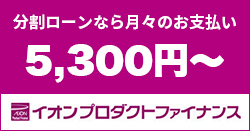
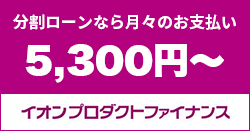
イオンクレジットバナーロゴ削除

Changed region(s): [[0.028, 0.7634, 0.98, 0.9466]]

diff --git a/src/components/Sideb.js b/src/components/Sideb.js
@@ -1,142 +1,60 @@
-import React from "react";
-import { Link } from "gatsby";
+import React from 'react';
+import { Link } from 'gatsby';
 
 const Sideb = () => {
   return (
     <>
-      <ul className="center">
+      <ul className='center'>
         <li>
-          <Link to="/leak/">
-            <img
-              src="/images/side01.jpg"
-              width={264}
-              height={264}
-              loading="lazy"
-              alt="雨漏り診断"
-            />
+          <Link to='/leak/'>
+            <img src='/images/side01.jpg' width={264} height={264} loading='lazy' alt='雨漏り診断' />
           </Link>
         </li>
         <li>
-          <Link to="/drone/">
-            <img
-              src="/images/side02.jpg"
-              width={264}
-              height={264}
-              loading="lazy"
-              alt="ドローンによる調査・診断を始めました"
-            />
+          <Link to='/drone/'>
+            <img src='/images/side02.jpg' width={264} height={264} loading='lazy' alt='ドローンによる調査・診断を始めました' />
           </Link>
         </li>
         <li>
-          <Link to="/category/omoide/">
-            <img
-              src="/images/side03.jpg"
-              width={264}
-              height={264}
-              loading="lazy"
-              alt="思い出のかべ"
-            />
+          <Link to='/category/omoide/'>
+            <img src='/images/side03.jpg' width={264} height={264} loading='lazy' alt='思い出のかべ' />
           </Link>
         </li>
         <li>
-          <a
-            href="https://lin.ee/HR9JB00"
-            target="_blank"
-            rel="noopener noreferrer"
-          >
-            <img
-              src="/images/side04.jpg"
-              width={264}
-              height={264}
-              loading="lazy"
-              alt="お気軽にLINEで簡単お問い合わせ"
-            />
+          <a href='https://lin.ee/HR9JB00' target='_blank' rel='noopener noreferrer'>
+            <img src='/images/side04.jpg' width={264} height={264} loading='lazy' alt='お気軽にLINEで簡単お問い合わせ' />
           </a>
         </li>
         <li>
-          <Link to="/karucera_works/">
-            <img
-              src="/images/karucera_bn.jpg"
-              width={264}
-              height={92}
-              loading="lazy"
-              alt="カルセラ"
-            />
+          <Link to='/karucera_works/'>
+            <img src='/images/karucera_bn.jpg' width={264} height={92} loading='lazy' alt='カルセラ' />
           </Link>
         </li>
         <li>
-          <a
-            href="https://www.chord.or.jp/"
-            target="_blank"
-            rel="noopener noreferrer"
-          >
-            <img
-              src="/images/smiledial_logo.png"
-              width={264}
-              height={101}
-              loading="lazy"
-              alt="住まいるダイヤル"
-            />
+          <a href='https://www.chord.or.jp/' target='_blank' rel='noopener noreferrer'>
+            <img src='/images/smiledial_logo.png' width={264} height={101} loading='lazy' alt='住まいるダイヤル' />
           </a>
         </li>
         <li>
-          <a
-            href="https://www.j-anshin.co.jp/"
-            target="_blank"
-            rel="noopener noreferrer"
-          >
-            <img
-              src="/images/side_ansin.svg"
-              width={231}
-              height={63}
-              loading="lazy"
-              alt="株式会社住宅あんしん保証"
-            />
+          <a href='https://www.j-anshin.co.jp/' target='_blank' rel='noopener noreferrer'>
+            <img src='/images/side_ansin.svg' width={231} height={63} loading='lazy' alt='株式会社住宅あんしん保証' />
           </a>
         </li>
         <li>
-          <img
-            src="/images/side06.jpg"
-            width={264}
-            height={88}
-            loading="lazy"
-            alt="外装リフォームの教科書"
-          />
+          <img src='/images/side06.jpg' width={264} height={88} loading='lazy' alt='外装リフォームの教科書' />
         </li>
         <li>
-          <a
-            href="https://www.mokutokyo.jp/"
-            target="_blank"
-            rel="noopener noreferrer"
-          >
-            <img
-              src="/images/side07.jpg"
-              width={264}
-              height={106}
-              loading="lazy"
-              alt="（一社）木造住宅塗装リフォーム協会"
-            />
+          <a href='https://www.mokutokyo.jp/' target='_blank' rel='noopener noreferrer'>
+            <img src='/images/side07.jpg' width={264} height={106} loading='lazy' alt='（一社）木造住宅塗装リフォーム協会' />
           </a>
         </li>
         <li>
-          <Link to="/aeon_credit/">
-            <img
-              src="/images/side05.jpg"
-              width={250}
-              height={131}
-              loading="lazy"
-              alt="便利な分割ローン"
-            />
+          <Link to='/aeon_credit/'>
+            <img src='/images/side05.jpg' width={250} height={131} loading='lazy' alt='便利な分割ローン' />
           </Link>
         </li>
         <li>
-          <img
-            src="/images/side09.jpg"
-            width={264}
-            height={336}
-            loading="lazy"
-            alt="選べる支払方法"
-          />
+          <img src='/images/side09.jpg' width={264} height={336} loading='lazy' alt='選べる支払方法' />
         </li>
       </ul>
     </>
